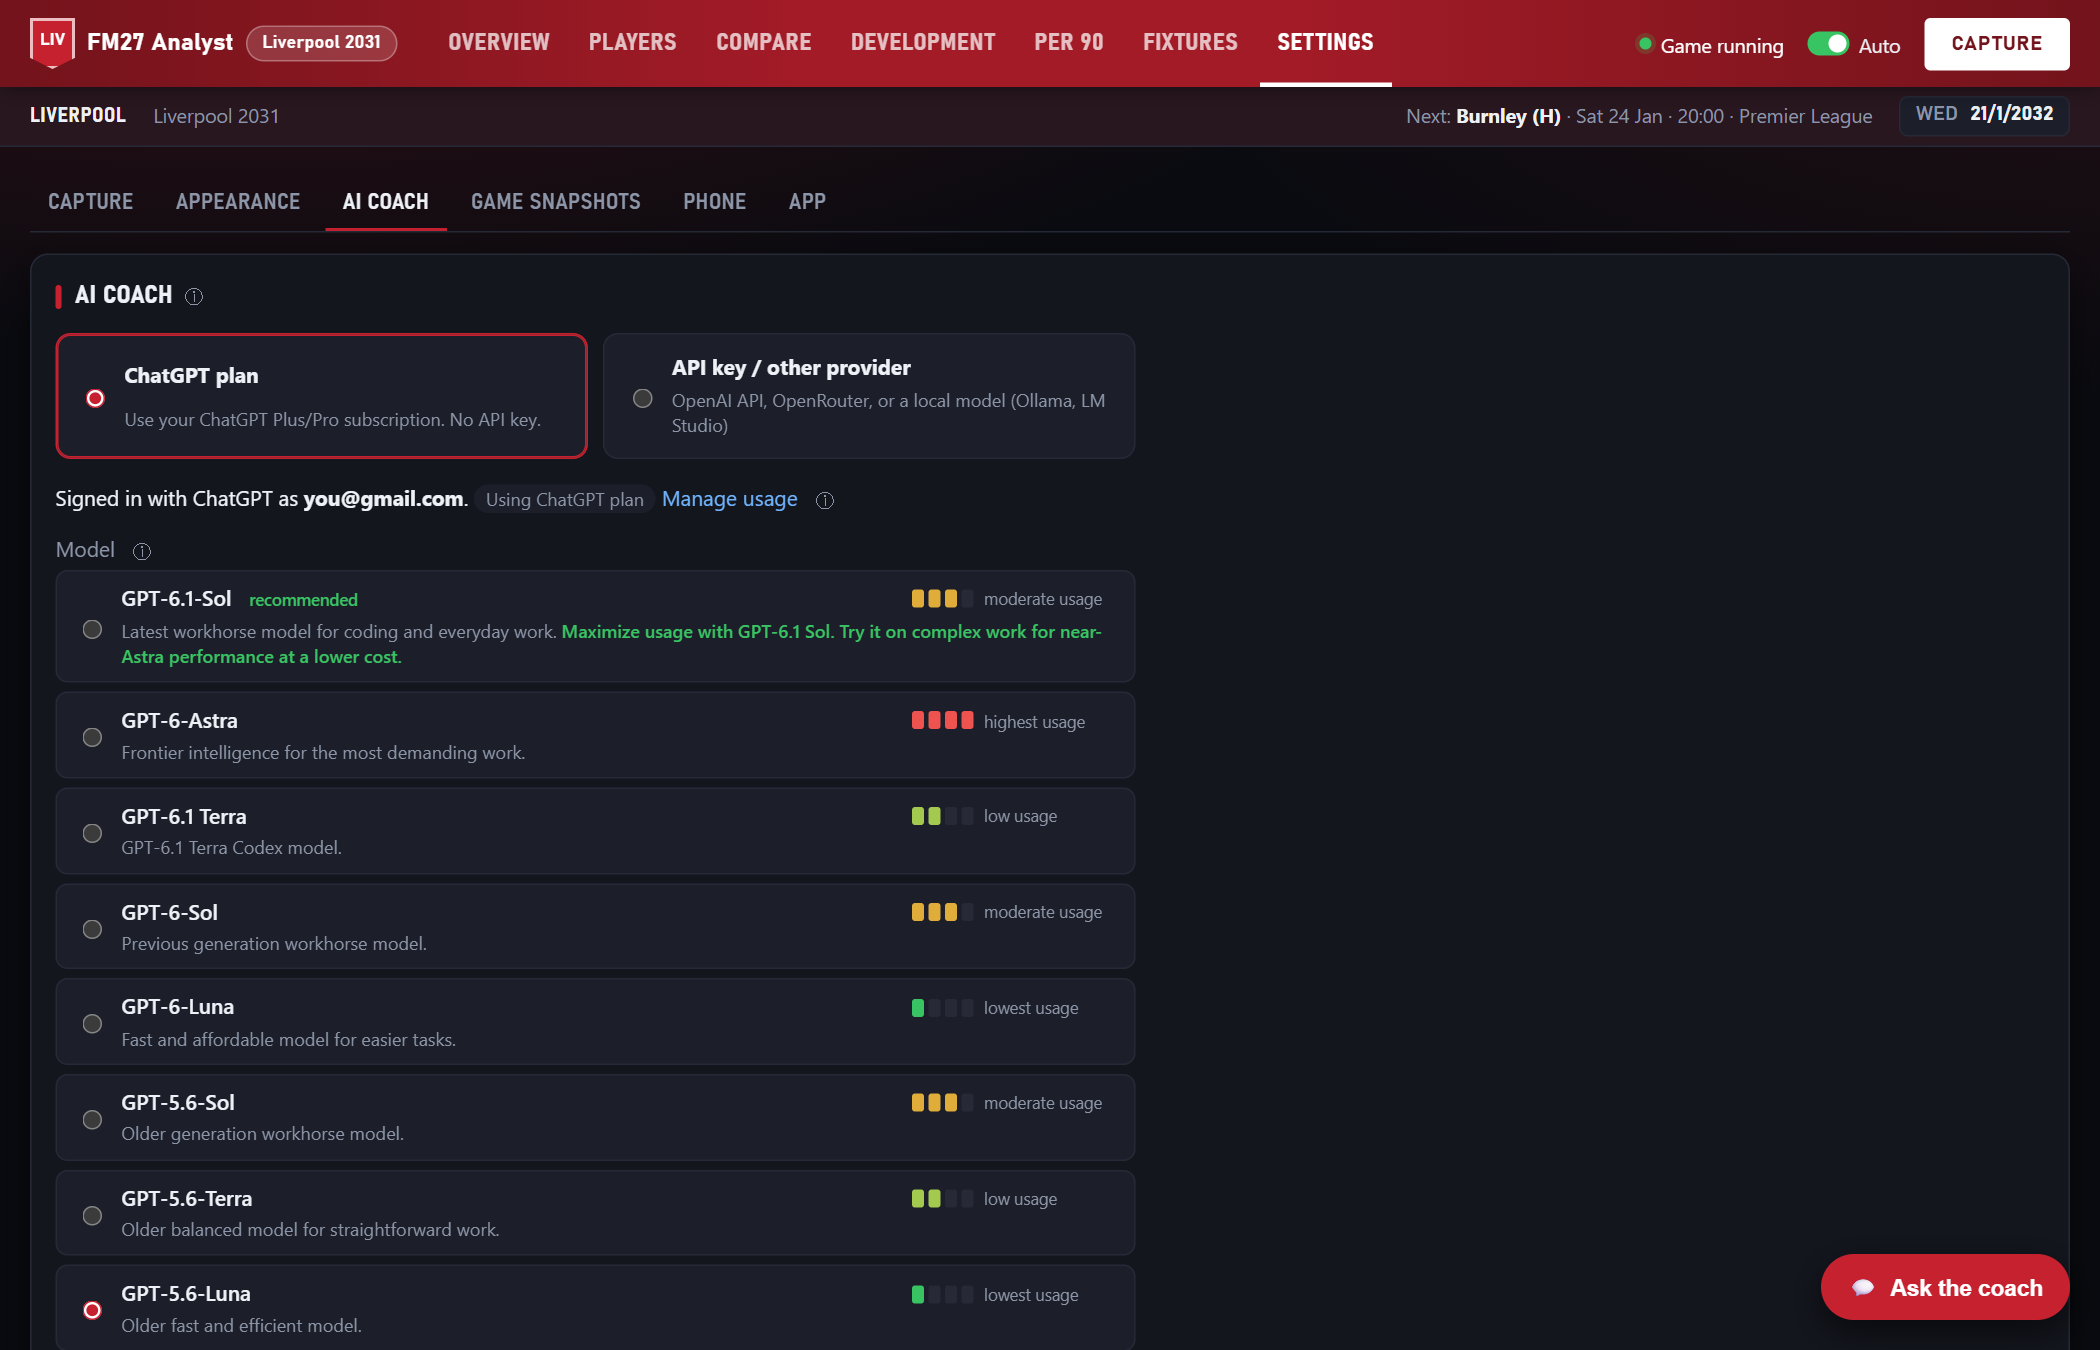
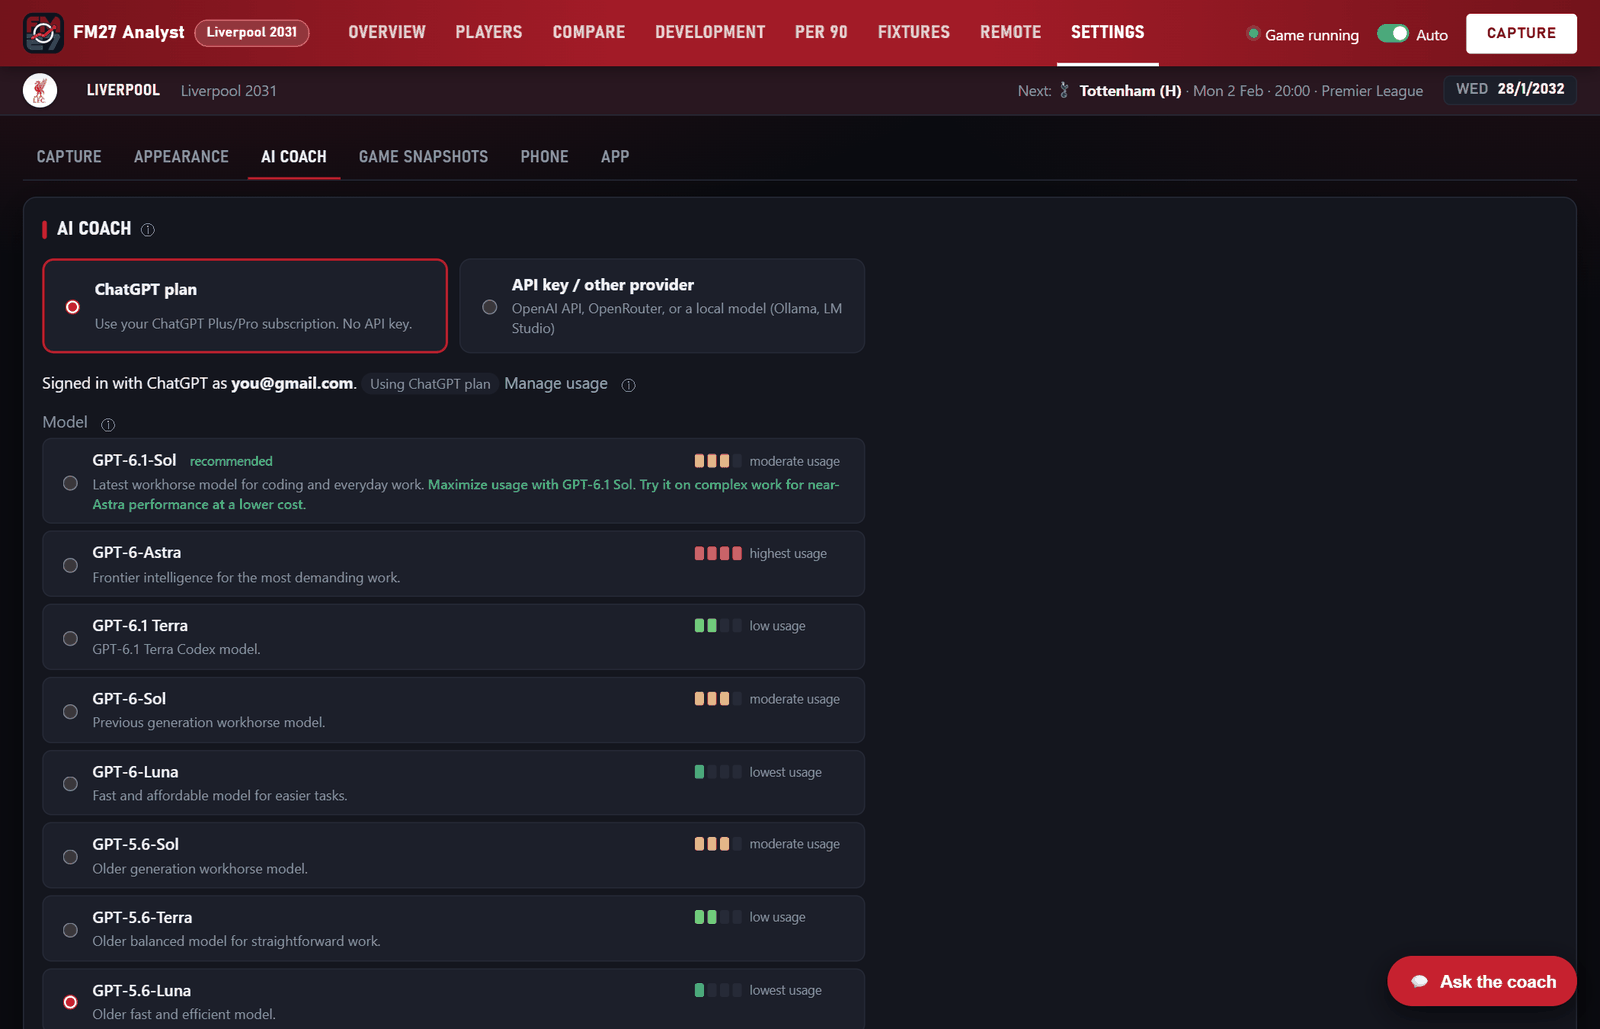
FM27 Analyst 1.0.2: out of beta
Updates page (docs/updates.md), version and What's new link in Settings > App, new screenshots
(four clubs, dark and light, remote play), README without the beta note.

diff --git a/web/static/app.js b/web/static/app.js
@@ -1023,6 +1023,8 @@ async function settingsPage() {
   <div ${pane("app")}>
   <div class="card wide">${h2i("App", "The app keeps running in the background after you close this window, so the hotkey "
     + "and auto-capture keep working. Double-click the FM27 Analyst shortcut to reopen the window. Quit stops it completely.")}
+    <p class="muted small0">FM27 Analyst ${esc(s.version || "")} ·
+      <a href="https://github.com/lastrider04/FM27-Analyst/blob/main/docs/updates.md" target="_blank" rel="noopener">What's new</a></p>
     <button id="quitBtn" class="secondary">Quit FM27 Analyst</button></div>
   </div>`;
   view.querySelectorAll("[data-secbtn]").forEach((b) => b.addEventListener("click", () => {

diff --git a/web/app.py b/web/app.py
@@ -746,7 +746,8 @@ def get_settings():
             "llm_model": cfg["llm"].get("model", ""), "llm_temperature": cfg["llm"].get("temperature"),
             "llm_provider": cfg["llm"].get("provider", "api"), "llm_chatgpt_model": cfg["llm"].get("chatgpt_model", ""),
             "llm_chatgpt_effort": cfg["llm"].get("chatgpt_effort", ""),
-            "llm_api_key_set": bool(key), "llm_api_key_hint": f"…{key[-4:]}" if len(key) >= 8 else ""}
+            "llm_api_key_set": bool(key), "llm_api_key_hint": f"…{key[-4:]}" if len(key) >= 8 else "",
+            "version": app_config.VERSION}
 
 
 @app.put("/api/settings")

diff --git a/app_config.py b/app_config.py
@@ -4,6 +4,7 @@ from __future__ import annotations
 import json
 from pathlib import Path
 
+VERSION = "1.0.2"          # see docs/updates.md
 ROOT = Path(__file__).parent
 DATA = ROOT / "data"
 DB_PATH = DATA / "fm_analyst.db"

diff --git a/docs/updates.md b/docs/updates.md
@@ -1,0 +1,155 @@
+# Updates
+
+[Guide index](../README.md#guide) · [Releases](https://github.com/lastrider04/FM27-Analyst/releases)
+
+- [1.0.2: out of beta](#102-out-of-beta) (14 November 2026)
+- [Earlier: the 1.0.0 betas](#earlier-the-100-betas)
+
+## 1.0.2: out of beta
+FM27 Analyst is out of beta. The big new feature is **remote play**: play FM27 from your phone, with the analyst's
+data and the AI coach a tap away. There are also club crests, a new logo, and settings that anyone can set up from
+inside the app.
+
+**Updating:** quit the app, extract the new version over your existing folder (your `data\` folder is kept), and run
+`install.bat` again. For remote play, also install its extra packages once (see [Remote play](#remote-play)).
+
+- [Where it fits in your game](#where-it-fits-in-your-game)
+- [Remote play](#remote-play)
+- [The analyst and the coach inside remote play](#the-analyst-and-the-coach-inside-remote-play)
+- [Back and Forward gestures](#back-and-forward-gestures)
+- [Phone app and remote play together](#phone-app-and-remote-play-together)
+- [Access from your devices](#access-from-your-devices)
+- [Club crests](#club-crests)
+- [New logo, more themes](#new-logo-more-themes)
+- [Settings anyone can use](#settings-anyone-can-use)
+- [Smaller changes and fixes](#smaller-changes-and-fixes)
+- [Game updates](#game-updates)
+
+### Where it fits in your game
+The same history, in four places:
+
+| When | Use | |
+|---|---|---|
+| **At the PC, while you play** | The dashboard on a second screen or alongside FM27: form, condition, per 90s and match reports, updated after every match. | [Dashboard](guide/dashboard.md) |
+| **On your phone, on the sofa** | The phone app: your squad, development, fixtures and the coach, while FM27 sits on the PC. | [Phone app](guide/phone.md) |
+| **Away from the PC** | Leave the PC running and plan ahead from anywhere: who's improving, who needs a rest, what's coming up. Ask the coach on the bus. | [Tailscale](guide/phone-tailscale.md) |
+| **Away from the PC, and want to play** | Pick the game up on your phone with remote play, and carry on where you left off. | [Remote play](guide/remote-play.md) |
+
+<table>
+<tr>
+<td width="58%"><img src="screenshots/01-overview.png" alt="Overview on the desktop"><br><b>At the PC:</b> the Overview while you play.</td>
+<td width="21%"><img src="screenshots/24-phone-development.png" alt="Development on the phone"><br><b>On the phone:</b> development.</td>
+<td width="21%"><img src="screenshots/25-phone-fixtures.png" alt="Fixtures on the phone"><br><b>Planning ahead:</b> fixtures.</td>
+</tr>
+</table>
+
+### Remote play
+**Play FM27 from your phone.** The phone shows a live picture of the game and turns your taps into mouse clicks and
+key presses on the PC. Read the inbox, pick the team, change tactics, press Continue and watch matches from the sofa,
+or from anywhere over Tailscale. It only sends input, the way you would at the PC; it never writes to game memory.
+
+- **Touch or Mouse mode.** Tap to click, pinch to zoom, press and hold for a magnifier, drag for the tactics pitch,
+  scroll with one finger, and a minimap to jump around.
+- **Smooth video** at Low, Medium or High (5, 10 or 16 Mbit/s), using your graphics card's encoder (NVIDIA or Intel),
+  or still pictures.
+- **FM27's own shortcuts** in a row along the bottom: Continue, Portal, Squad, Tactics, News and Save.
+- **Alerts.** When FM27 stops processing and needs you, the phone chimes, buzzes and shows FM27's own button
+  ("Continue", "Go To Match"). Over Tailscale HTTPS it can also send a phone notification with the page closed.
+- **Install it** on the Home Screen and play full screen.
+- **Safe by design.** Paired phones only, home Wi-Fi or Tailscale only, never the open internet. Shortcut buttons can
+  only send a fixed set of keys.
+
+Turn it on in the analyst's new **Remote** tab. It needs a few extra packages, installed once:
+`.venv\Scripts\python -m pip install -r remote\requirements.txt`.
+Full guide: [Remote play](guide/remote-play.md).
+
+<img src="screenshots/16-remote-tab.png" width="600" alt="The Remote tab">
+
+### The analyst and the coach inside remote play
+**App** in remote play opens the analyst over the game, so you never have to leave it:
+- **Next match:** suggested changes, who to rest, fitness alerts;
+- **Squad:** condition, sharpness and form for every player, sortable;
+- **Fixtures:** the next ten matches and the last ten results;
+- **💬 Ask the coach:** the AI coach, with the provider you set in the analyst. Conversations are saved there too.
+  This button only shows when the coach is set up.
+
+**Update** captures FM27 straight away, and **Analyst** switches to the full phone app and back.
+
+<table>
+<tr>
+<td width="33%"><img src="screenshots/26-remote-squad.png" alt="Squad in remote play"><br>Squad</td>
+<td width="33%"><img src="screenshots/27-remote-next.png" alt="Next match in remote play"><br>Next match</td>
+<td width="33%"><img src="screenshots/28-remote-coach.png" alt="The coach in remote play"><br>The coach</td>
+</tr>
+</table>
+
+### Back and Forward gestures
+Draw a full circle on the picture with one finger: **anticlockwise goes Back, clockwise goes Forward**, like the side
+buttons on a mouse. A label flashes to show which one was sent. It works in Touch and Mouse mode.
+See [On the phone](guide/remote-play.md#on-the-phone).
+
+### Phone app and remote play together
+Phones already set up with the [phone app](guide/phone.md) don't need to pair again. In **Settings › Phone**, each
+paired phone has two switches: **Remote play on home Wi-Fi** and **Remote play over Tailscale**. The phone app's
+**Remote** tab then opens remote play in one tap, already paired. Turning a switch off, or revoking the phone, cuts it
+off within seconds. Any other phone pairs by scanning a QR code in the Remote tab.
+See [Pairing a phone](guide/remote-play.md#pairing-a-phone).
+
+### Access from your devices
+A new card in **Settings › Phone**, after the setup guide, lists the addresses your devices can open:
+- your **Tailscale** name (MagicDNS) and address when Tailscale is connected on the PC, for use anywhere;
+- how to set Tailscale up, if it isn't;
+- your **home Wi-Fi** address, for use at home only.
+
+It reminds you to pair the device first (**Pair a device**), warns when your **Only accept connections from** setting
+would block an address, and links to the guides. See [Settings › Phone](guide/phone.md#settings--phone).
+
+<img src="screenshots/14-settings-phone.png" width="600" alt="Settings › Phone with the Access from your devices card">
+
+### Club crests
+If you've installed a logo pack for FM27 (TCM, FMG and so on), the app shows the same crests: your club in the
+header, opponents in fixtures and match reports, and in remote play. Without one it shows initials, as before.
+**Settings › Appearance** says how many crests it found. If your FM27 user folder isn't in Documents, paste its
+`graphics` folder there. See [Appearance](guide/getting-started.md#appearance).
+
+### New logo, more themes
+A new app logo (FM27 block letters, a centre circle and a form line) in the header, the shortcuts and the phone's
+Home Screen. The theme still follows your club's colours, in dark or light mode, on the PC and the phone:
+
+<table>
+<tr>
+<td width="50%"><img src="screenshots/02-players.png" alt="Players, light mode"><br>Players, light</td>
+<td width="50%"><img src="screenshots/08-match.png" alt="Match report, dark mode"><br>Match report, dark</td>
+</tr>
+<tr>
+<td><img src="screenshots/04-compare.png" alt="Compare, dark mode"><br>Compare, dark</td>
+<td><img src="screenshots/06-per90.png" alt="Per 90, light mode"><br>Per 90, light</td>
+</tr>
+</table>
+
+### Settings anyone can use
+Everything is set up from inside the app, with your own accounts and addresses; no files to edit:
+- **Remote tab › Shortcut row:** rename, reorder, remove or add buttons (up to 8), each with a key and an icon.
+  **Back to the defaults** undoes it.
+- **Settings › Appearance › FM27 graphics folder:** for logo packs outside Documents.
+- **Settings › Phone › Access from your devices:** the addresses to use (above).
+- **Settings › App** shows the version and links here.
+
+### Smaller changes and fixes
+- **Ask the coach** buttons only show once the AI coach is set up (**Settings › AI coach**), on the PC, the phone and
+  in remote play.
+- Plainer wording for auto-capture.
+- Remote play: opening it straight into Mouse mode no longer keeps reconnecting with the cursor stuck in the corner.
+
+### Game updates
+- Works with the latest FM27 update (build `df0c5c4104b2`). The app checked that its offsets for the 11 November
+  build still fit, and carried on by itself.
+- The profiles for the release build (`e6edaa71ecd9`) and the 11 November build (`f2bf83294162`) are still included.
+
+## Earlier: the 1.0.0 betas
+- **[Beta 4](https://github.com/lastrider04/FM27-Analyst/releases/tag/v1.0.0-beta.4)** (11 November): works with
+  the 11 November FM27 update.
+- **[Beta 3](https://github.com/lastrider04/FM27-Analyst/releases/tag/v1.0.0-beta.3)** (8 November): the new look,
+  with club colours, dark and light modes, and Appearance settings.
+- **[Betas 1 and 2](https://github.com/lastrider04/FM27-Analyst/releases/tag/v1.0.0-beta.2)** (8 November): the
+  first release: captures, dashboard, AI coach and phone app.

diff --git a/README.md b/README.md
@@ -7,7 +7,7 @@
 - **over time:** attributes, CA and development;
 - **fitness:** condition, sharpness and injuries.
 
-From that history you get a dashboard, a recommended XI for the next match, and an AI assistant manager you can ask about your squad. It also works on your phone.
+From that history you get a dashboard, a recommended XI for the next match, and an AI assistant manager you can ask about your squad. It also works on your phone, and with **remote play** you can play FM27 from your phone too.
 
 ![Overview](docs/screenshots/01-overview.png)
 
@@ -16,7 +16,7 @@ From that history you get a dashboard, a recommended XI for the next match, and 
 - 🎨 **Your club's colours.** The dashboard takes its colours from your club in the game, in dark or light mode.
 - 💻 **Local.** Everything stays on your PC. Nothing leaves it unless you set up the AI coach, and then only your squad summary goes to the provider you choose.
 
-> **Beta.** FM27 is new and will be patched; FM27 Analyst is tested on one long career. Expect the odd rough edge, and please [report anything that looks wrong](https://github.com/lastrider04/FM27-Analyst/issues).
+> **New in 1.0.2 (out of beta):** play FM27 from your phone with [remote play](docs/updates.md#remote-play), the analyst and AI coach inside it, club crests and a new logo. See [what's new](docs/updates.md).
 >
 > Unofficial fan project, not affiliated with or endorsed by Sports Interactive or SEGA. For single-player saves only.
 
@@ -48,6 +48,7 @@ The full walkthrough is in [Installation](docs/guide/installation.md) and [Getti
 | 7 | **[Troubleshooting](docs/guide/troubleshooting.md)** | Install, capture, game-update banner, data, coach and phone problems |
 | 8 | **[Privacy, security and your data](docs/guide/privacy-and-data.md)** | What's read, what's sent where, the `data\` folder, how secrets are stored |
 | 9 | **[For developers](docs/guide/development.md)** | Running from source, tests, code layout, game builds, contributing |
+| | **[Updates](docs/updates.md)** | What's new in each version |
 
 ## Features at a glance
 
@@ -64,11 +65,15 @@ The full walkthrough is in [Installation](docs/guide/installation.md) and [Getti
 <td><a href="docs/guide/ai-coach.md"><img src="docs/screenshots/09-coach.png" alt="AI coach"></a><br><b>AI coach</b>: ask who to rest, rotate or develop. It answers from your data.</td>
 <td><a href="docs/guide/phone.md"><img src="docs/screenshots/20-phone-overview.png" width="180" alt="Phone app"> <img src="docs/screenshots/22-phone-coach.png" width="180" alt="Phone coach"></a><br><b>Phone app</b>: installable, works anywhere, with two-step pairing.</td>
 </tr>
+<tr>
+<td><a href="docs/guide/remote-play.md"><img src="docs/screenshots/27-remote-next.png" width="180" alt="Remote play, next match"> <img src="docs/screenshots/26-remote-squad.png" width="180" alt="Remote play, squad"></a><br><b>Remote play</b>: play FM27 from your phone, with the analyst and the coach over the game.</td>
+<td><a href="docs/guide/getting-started.md#appearance"><img src="docs/screenshots/02-players.png" alt="Light mode"></a><br><b>Your club's look</b>: club colours and crests, in dark or light mode.</td>
+</tr>
 </table>
 
 ## Requirements
 - **Windows** 10 or 11.[^platforms]
-- **Football Manager 27** (PC), the FM27 release of November 2026 (build `e6edaa71ecd9`). After a game patch it tries its existing offsets and carries on if they still fit; otherwise it tells you it needs an update; see [Troubleshooting](docs/guide/troubleshooting.md#fm27-has-been-updated-banner).
+- **Football Manager 27** (PC), tested on the release build (`e6edaa71ecd9`), the 11 November update (`f2bf83294162`) and the latest update (`df0c5c4104b2`). After a game patch it tries its existing offsets and carries on if they still fit; otherwise it tells you it needs an update; see [Troubleshooting](docs/guide/troubleshooting.md#fm27-has-been-updated-banner).
 - **Python** 3.10 or newer.
 - **Edge or Chrome** (Edge comes with Windows).
 

diff --git a/docs/guide/installation.md b/docs/guide/installation.md
@@ -18,7 +18,7 @@ This page covers what you need, how to install FM27 Analyst, how to update it, a
 | | |
 |---|---|
 | **Windows** | Windows 10 or 11, 64-bit. |
-| **Football Manager 27** | The PC version. The reader matches the FM27 release of November 2026 (build `e6edaa71ecd9`). After a game patch, the app tells you if it doesn't recognise the new build; see [Troubleshooting](troubleshooting.md#fm27-has-been-updated-banner). |
+| **Football Manager 27** | The PC version. Tested on the release build (`e6edaa71ecd9`), the 11 November update (`f2bf83294162`) and the latest update (`df0c5c4104b2`). After a game patch it tries its existing offsets and carries on if they still fit; otherwise it tells you it needs an update; see [Troubleshooting](troubleshooting.md#fm27-has-been-updated-banner). |
 | **Python** | 3.10 or newer. It's free; see below. The app runs in its own private Python environment, so it won't affect anything else you use Python for. |
 | **A browser** | Microsoft Edge (built into Windows) or Google Chrome, used to show the app in its own window. |
 | **Disk space** | About 200 MB for the app and its packages, plus a few MB per season of history. |
